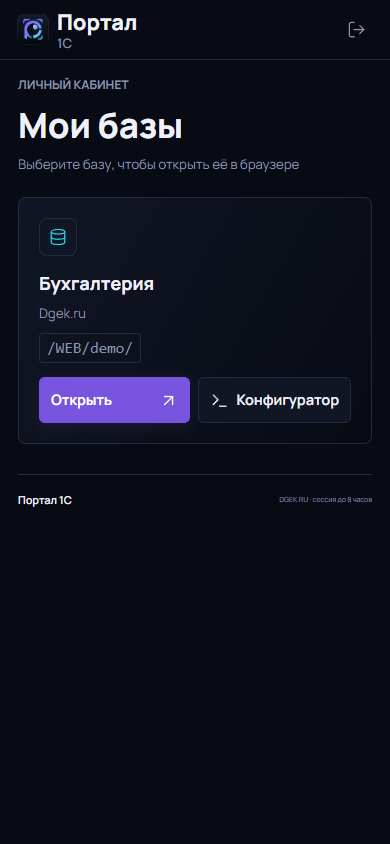
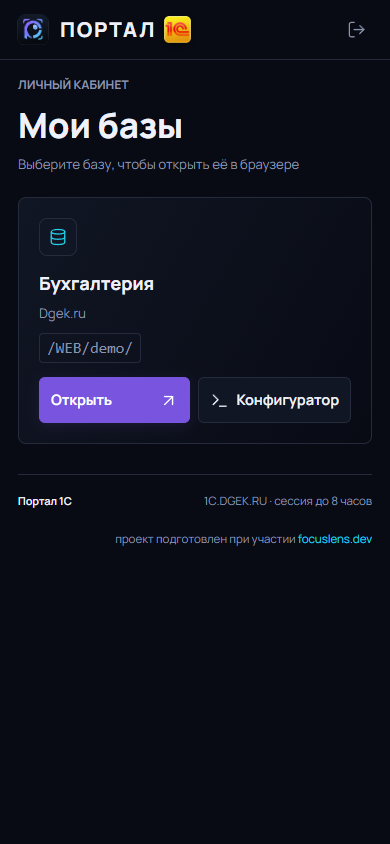
feat(brand): логотип 1С в шапке, подвал и подпись проекта
- шапка в одну строку: логотип портала + «ПОРТАЛ» + логотип 1С (logo1c.png)
- подвал: 1С.DGEK.RU, шрифт увеличен на 20 %
- подпись «проект подготовлен при участии focuslens.dev» со ссылкой
- скриншоты перегенерированы

Changed region(s): [[0.3077, 0.5853, 0.9538, 0.6469], [0.1538, 0.0, 0.4923, 0.0616], [0.0615, 0.5853, 0.1846, 0.6161]]

diff --git a/static/portal.css b/static/portal.css
@@ -1,8 +1,29 @@
-/* Портал 1С — надстройка над app.css */
+/* Портал 1С — надстройка над app.css */
 .portal-shell{margin-left:0}
 .topbar-brand{gap:8px}
 .topbar-brand img{width:32px;height:32px}
 .topbar-brand .brand-sub{font-size:13px;margin-top:0}
+
+/* Бренд в шапке: логотип портала + «ПОРТАЛ» + логотип 1С в одну строку */
+.brand{display:flex;align-items:center;gap:11px}
+.brand img.brand-mark{width:38px;height:38px;border-radius:9px;object-fit:contain}
+.brand-line{display:inline-flex;align-items:center;gap:8px;font-size:calc(17px*var(--fs));
+            font-weight:800;letter-spacing:.09em;line-height:1;color:var(--text);white-space:nowrap}
+.brand img.brand-1c{width:auto;height:calc(24px*var(--fs));border-radius:5px;
+                    box-shadow:0 2px 10px #0006;object-fit:contain}
+.topbar-brand img.brand-mark{width:32px;height:32px}
+.topbar-brand img.brand-1c{height:calc(22px*var(--fs))}
+
+/* Подвал: шрифт увеличен на 20 % */
+.app-footer{font-size:calc(10.8px*var(--fs))}
+.app-footer>span:last-child{font-size:calc(9.6px*var(--fs))}
+.login-footer{font-size:calc(12px*var(--fs))}
+
+/* Подпись проекта */
+.credits{margin:0 0 26px;text-align:right;color:var(--muted);font-size:calc(9.6px*var(--fs))}
+.credits a{color:var(--cyan)}
+.credits a:hover{text-decoration:underline}
+.login-page .credits{text-align:center;margin:0 0 20px;font-size:calc(10.5px*var(--fs))}
 
 .tabs{display:flex;gap:4px;margin-left:10px}
 .tab{display:inline-flex;align-items:center;gap:7px;padding:7px 12px;border-radius:6px;font-size:11px;font-weight:650;color:var(--muted);border:1px solid transparent}

diff --git a/templates/portal.html b/templates/portal.html
@@ -12,7 +12,7 @@
 <body>
   <div class="app-shell portal-shell">
     <header class="topbar">
-      <div class="brand topbar-brand"><img src="{{ url_for('static', filename='brand.png') }}" alt=""><span>Портал<span class="brand-sub">1С</span></span></div>
+      <div class="brand topbar-brand"><img class="brand-mark" src="{{ url_for('static', filename='brand.png') }}" alt=""><span class="brand-line">ПОРТАЛ<img class="brand-1c" src="{{ url_for('static', filename='logo1c.png') }}" alt="1С"></span></div>
       <div class="topbar-right">
         <span class="account-name">{{ session.name }}</span>
         <span class="avatar">{{ (session.name or 'U')[0]|upper }}</span>
@@ -47,7 +47,11 @@
       {% else %}
       <div class="empty-state"><i data-lucide="database-zap"></i><strong>Нет доступных баз</strong>Обратитесь к администратору портала.</div>
       {% endif %}
-      <footer class="app-footer"><span>Портал 1С</span><span class="muted">DGEK.RU · сессия до 8 часов</span></footer>
+      <footer class="app-footer">
+        <span>Портал 1С</span>
+        <span class="muted">1С.DGEK.RU · сессия до 8 часов</span>
+      </footer>
+      <div class="credits">проект подготовлен при участии <a href="https://focuslens.dev" target="_blank" rel="noopener">focuslens.dev</a></div>
     </main>
   </div>
 

diff --git a/templates/admin.html b/templates/admin.html
@@ -12,7 +12,7 @@
 <body>
   <div class="app-shell portal-shell">
     <header class="topbar">
-      <div class="brand topbar-brand"><img src="{{ url_for('static', filename='brand.png') }}" alt=""><span>Портал<span class="brand-sub">1С</span></span></div>
+      <div class="brand topbar-brand"><img class="brand-mark" src="{{ url_for('static', filename='brand.png') }}" alt=""><span class="brand-line">ПОРТАЛ<img class="brand-1c" src="{{ url_for('static', filename='logo1c.png') }}" alt="1С"></span></div>
       <nav class="tabs">
         <a class="tab {% if tab == 'users' %}active{% endif %}" href="{{ url_for('admin', tab='users') }}"><i data-lucide="users"></i>Клиенты</a>
         <a class="tab {% if tab == 'bases' %}active{% endif %}" href="{{ url_for('admin', tab='bases') }}"><i data-lucide="database"></i>Базы</a>
@@ -117,7 +117,8 @@
       {% endfor %}
       {% endif %}
 
-      <footer class="app-footer"><span>Портал 1С</span><span class="muted">DGEK.RU · управление доступом</span></footer>
+      <footer class="app-footer"><span>Портал 1С</span><span class="muted">1С.DGEK.RU · управление доступом</span></footer>
+      <div class="credits">проект подготовлен при участии <a href="https://focuslens.dev" target="_blank" rel="noopener">focuslens.dev</a></div>
     </main>
   </div>
 

diff --git a/templates/login.html b/templates/login.html
@@ -11,7 +11,7 @@
 </head>
 <body class="login-page">
   <header class="login-header">
-    <a class="brand" href="/"><img src="{{ url_for('static', filename='brand.png') }}" alt=""><span>Портал<span class="brand-sub">1С</span></span></a>
+    <a class="brand" href="/"><img class="brand-mark" src="{{ url_for('static', filename='brand.png') }}" alt=""><span class="brand-line">ПОРТАЛ<img class="brand-1c" src="{{ url_for('static', filename='logo1c.png') }}" alt="1С"></span></a>
     <span class="muted small">DGEK / 1C WEB</span>
   </header>
   <main class="login-main">
@@ -29,7 +29,8 @@
       <div class="login-secure"><i data-lucide="shield-check"></i>Защищённая сессия портала</div>
     </form>
   </main>
-  <footer class="login-footer"><span>Портал 1С <span class="muted">/ v1.0</span></span><span class="muted">DGEK.RU</span></footer>
+  <footer class="login-footer"><span>Портал 1С <span class="muted">/ v1.0</span></span><span class="muted">1С.DGEK.RU</span></footer>
+  <div class="credits">проект подготовлен при участии <a href="https://focuslens.dev" target="_blank" rel="noopener">focuslens.dev</a></div>
   <script>
     document.addEventListener('DOMContentLoaded', function () { if (window.lucide) lucide.createIcons(); });
     document.addEventListener('click', function (e) {
